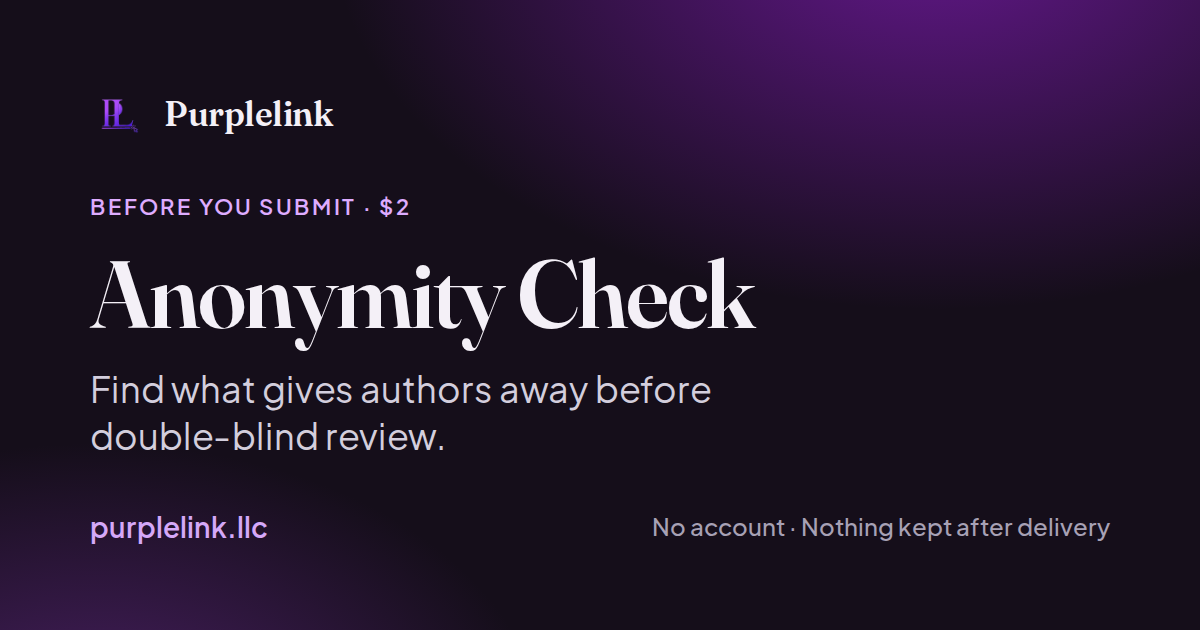
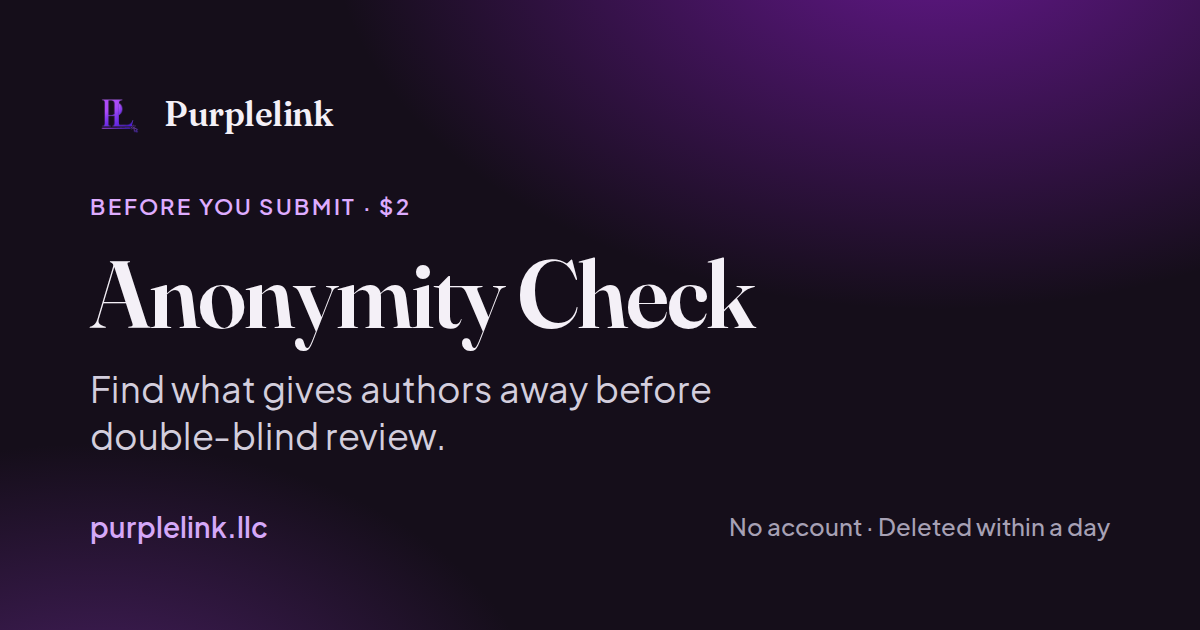
og: share cards use current tool names and the real retention
Five paid-tool share cards said 'Nothing kept after delivery'; they now
say 'Deleted within a day'. The Response and Citation Gap cards use the
tools' page names.

Claude-Session: https://claude.ai/code/session_01GFwHU8hHA22ohxNkmaAzcp

Changed region(s): [[0.5242, 0.8143, 0.925, 0.8746]]

diff --git a/site/assets/og/_gen.html b/site/assets/og/_gen.html
@@ -76,11 +76,11 @@
       "word-counter":      { emoji: "🔢", title: "Word Counter",      tagline: "Live word, character, sentence & reading-time stats." },
       "file-to-markdown":  { emoji: "📝", title: "File to Markdown",  tagline: "Convert PDF, Word, PowerPoint, Excel, HTML & CSV to clean Markdown." },
       "vitae":             { emoji: "§",  title: "Vitae", tagline: "Your CV, submissions, grants and tenure case, tracked on your Mac.", kicker: "Free Mac app", foot: "Free · Local-first · Your data stays on your Mac" },
-      "paper-review":      { emoji: "", title: "Paper Review", tagline: "Four AI reviewers read your manuscript before the journal does.", kicker: "Pre-submission review · from $9", foot: "No account · Nothing kept after delivery" },
-      "anonymity-check":   { emoji: "", title: "Anonymity Check", tagline: "Find what gives authors away before double-blind review.", kicker: "Before you submit · $2", foot: "No account · Nothing kept after delivery" },
-      "citation-gap":      { emoji: "", title: "Citation Gap", tagline: "Find the prior work your manuscript should cite and doesn't.", kicker: "Before you submit · $3", foot: "No account · Nothing kept after delivery" },
-      "cover-letter":      { emoji: "", title: "Cover Letter", tagline: "A journal cover letter drafted from your abstract and target venue.", kicker: "Before you submit · $2", foot: "No account · Nothing kept after delivery" },
-      "response-review":   { emoji: "", title: "Response Review", tagline: "A reviewer panel reads your response letter before the editor does.", kicker: "Before you resubmit · $6", foot: "No account · Nothing kept after delivery" },
+      "paper-review":      { emoji: "", title: "Paper Review", tagline: "Four AI reviewers read your manuscript before the journal does.", kicker: "Pre-submission review · from $9", foot: "No account · Deleted within a day" },
+      "anonymity-check":   { emoji: "", title: "Anonymity Check", tagline: "Find what gives authors away before double-blind review.", kicker: "Before you submit · $2", foot: "No account · Deleted within a day" },
+      "citation-gap":      { emoji: "", title: "Citation Gap Analysis", tagline: "Find the prior work your manuscript should cite and doesn't.", kicker: "Before you submit · $3", foot: "No account · Deleted within a day" },
+      "cover-letter":      { emoji: "", title: "Cover Letter", tagline: "A journal cover letter drafted from your abstract and target venue.", kicker: "Before you submit · $2", foot: "No account · Deleted within a day" },
+      "response-review":   { emoji: "", title: "Response to Reviewers", tagline: "A reviewer panel reads your response letter before the editor does.", kicker: "Before you resubmit · $6", foot: "No account · Deleted within a day" },
       "pdf-structure":     { emoji: "", title: "PDF to Structured Data", tagline: "Reading-order Markdown and RAG-ready JSON from any PDF.", kicker: "Free tool" },
       "scholar-utility-belt": { emoji: "", title: "Scholar Utility Belt", tagline: "Journal rankings, author metrics and retraction alerts in Google Scholar.", kicker: "Free Chrome extension", foot: "No tracking · No account · MIT-licensed" },
       "products":          { emoji: "", title: "Tools for the paper", tagline: "Mac apps and manuscript checks for researchers, from first draft to accepted.", kicker: "Purplelink products", foot: "ModernTex · Vitae · Paper Review" },
